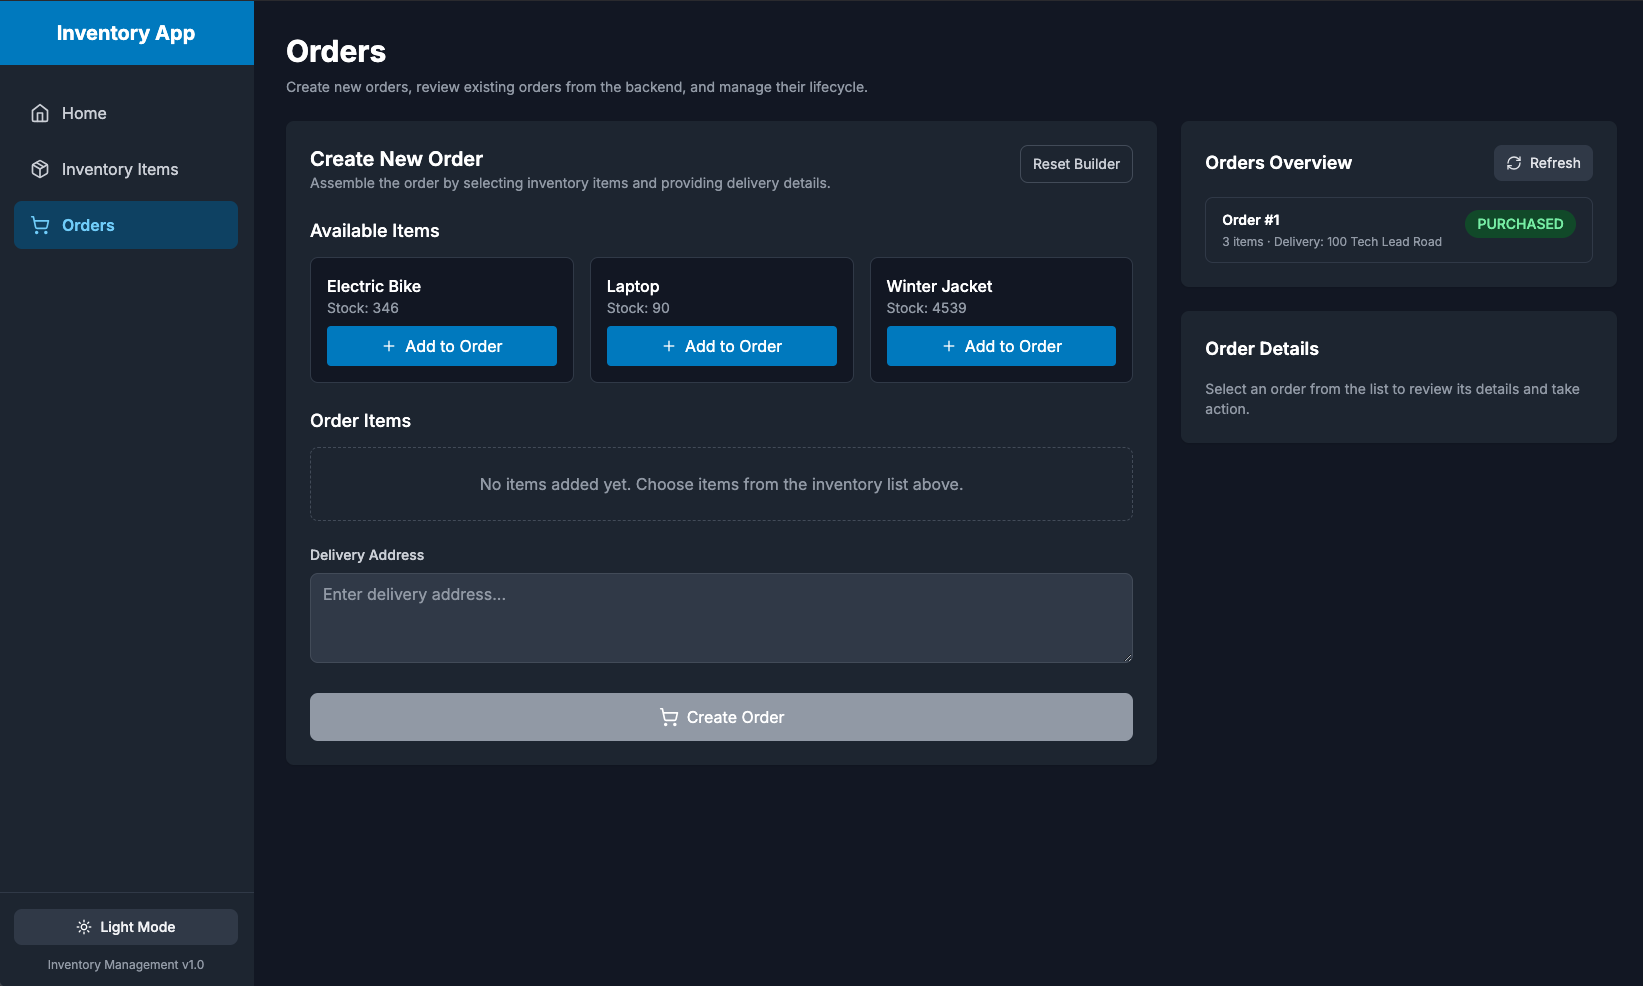
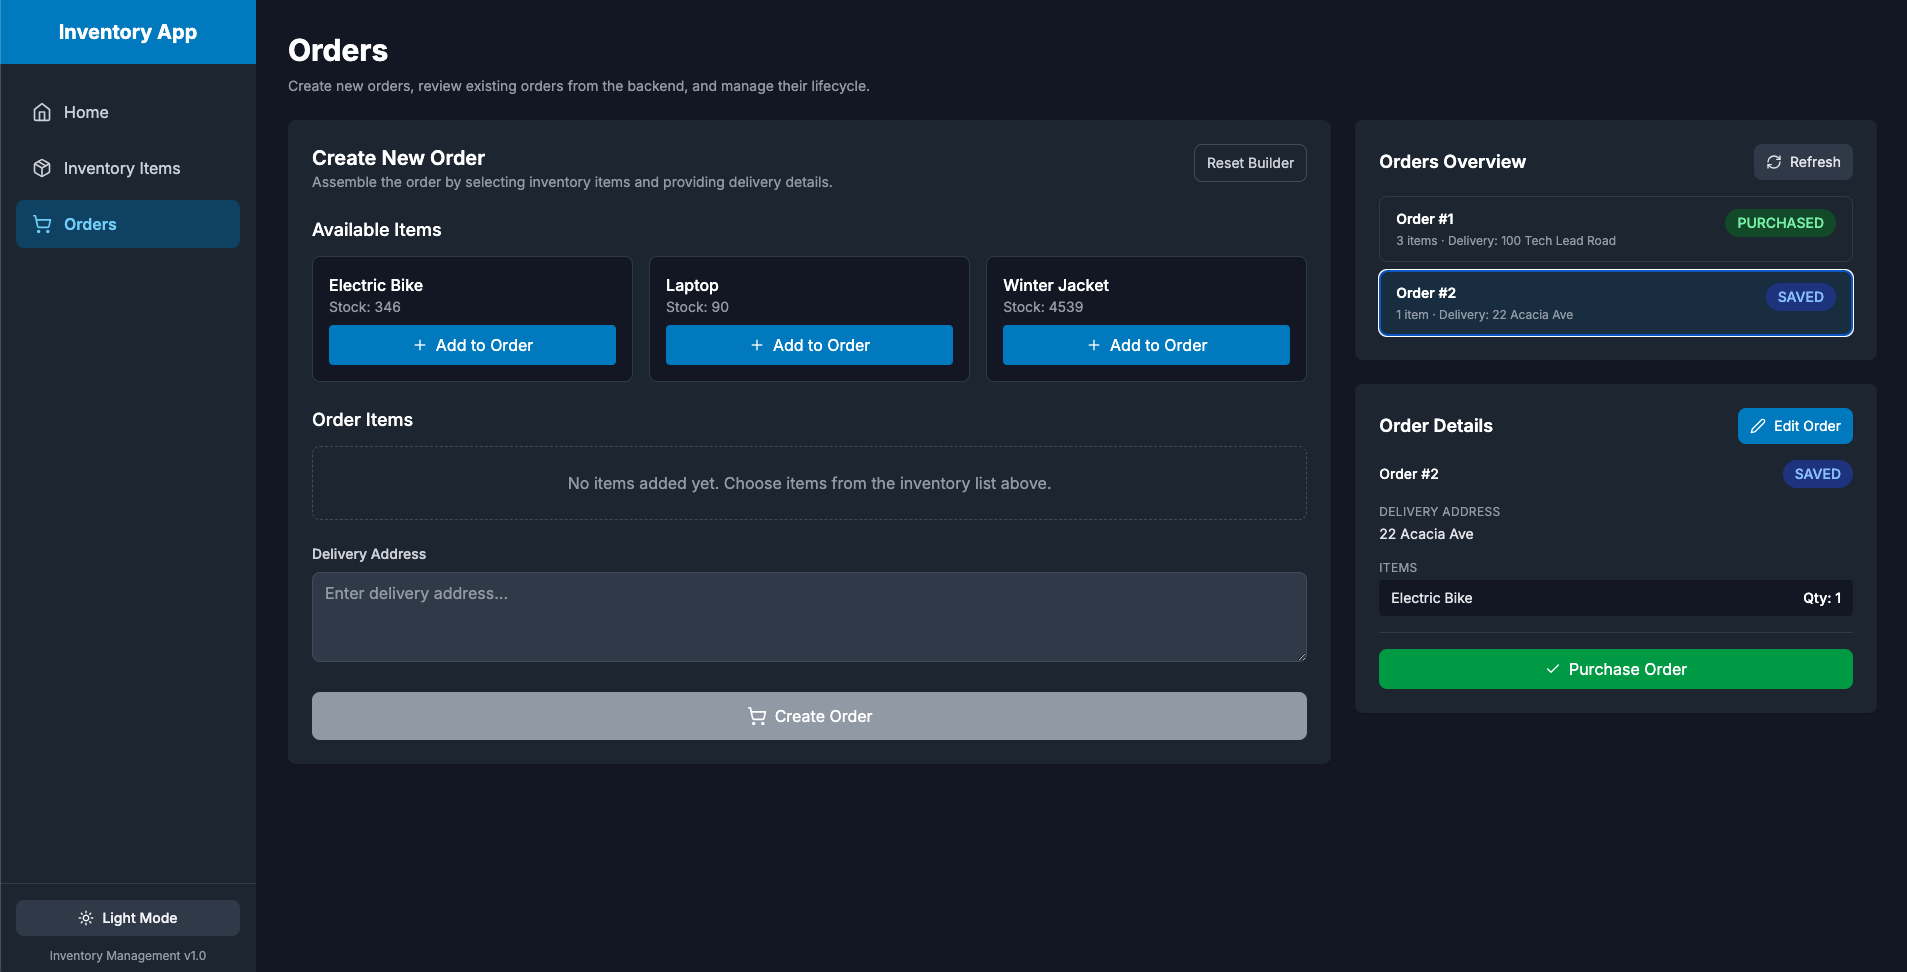
update  preview image

diff --git a/app/orders/page.tsx b/app/orders/page.tsx
@@ -210,11 +210,11 @@ export default function OrdersPage() {
     }
   };
 
-  const handlePurchaseOrder = async (orderId: number, virtual: boolean = true) => {
+  const handlePurchaseOrder = async (orderId: number) => {
     try {
       setIsSubmitting(true);
       setError(null);
-      await apiClient.purchaseOrder(orderId, virtual);
+      await apiClient.purchaseOrder(orderId);
       showSuccessMessage(`Order #${orderId} purchased successfully!`);
 
       await loadOrders();
@@ -224,9 +224,6 @@ export default function OrdersPage() {
       if (editingOrderId === orderId) {
         prefillBuilderFromOrder(refreshedOrder);
       }
-
-      // Refresh inventory numbers so the builder reflects updated stock levels
-      await loadItems();
     } catch (err) {
       setError('Failed to purchase order.');
       console.error('Error purchasing order:', err);
@@ -512,22 +509,13 @@ export default function OrdersPage() {
 
                 <div className="flex flex-col gap-2 pt-4 border-t border-gray-200 dark:border-gray-700">
                   {selectedOrder.status === OrderStatus.SAVED ? (
-                    <>
-                      <button
-                        onClick={() => selectedOrder.id != null && handlePurchaseOrder(selectedOrder.id, true)}
-                        disabled={isSubmitting}
-                        className="flex items-center justify-center px-4 py-2 bg-primary-600 text-white rounded-lg hover:bg-primary-700 transition-colors disabled:bg-gray-400"
-                      >
-                        <Check className="w-4 h-4 mr-2" /> Purchase (Virtual)
-                      </button>
-                      <button
-                        onClick={() => selectedOrder.id != null && handlePurchaseOrder(selectedOrder.id, false)}
-                        disabled={isSubmitting}
-                        className="flex items-center justify-center px-4 py-2 bg-green-600 text-white rounded-lg hover:bg-green-700 transition-colors disabled:bg-gray-400"
-                      >
-                        <Check className="w-4 h-4 mr-2" /> Purchase (Real)
-                      </button>
-                    </>
+                    <button
+                      onClick={() => selectedOrder.id != null && handlePurchaseOrder(selectedOrder.id)}
+                      disabled={isSubmitting}
+                      className="flex items-center justify-center px-4 py-2 bg-green-600 text-white rounded-lg hover:bg-green-700 transition-colors disabled:bg-gray-400"
+                    >
+                      <Check className="w-4 h-4 mr-2" /> Purchase Order
+                    </button>
                   ) : (
                     <p className="text-sm text-gray-600 dark:text-gray-400">
                       This order has already been purchased.

diff --git a/app/api/orders/[id]/purchase/route.ts b/app/api/orders/[id]/purchase/route.ts
@@ -7,18 +7,12 @@ export async function POST(
   { params }: { params: { id: string } }
 ) {
   try {
-    const { searchParams } = new URL(request.url);
-    const virtual = searchParams.get('virtual') !== 'false'; // Default to true
-    
-    const response = await fetch(
-      `${API_BASE_URL}/api/orders/${params.id}/purchase?virtual=${virtual}`,
-      {
-        method: 'POST',
-        headers: {
-          'Content-Type': 'application/json',
-        },
-      }
-    );
+    const response = await fetch(`${API_BASE_URL}/api/orders/${params.id}/purchase`, {
+      method: 'POST',
+      headers: {
+        'Content-Type': 'application/json',
+      },
+    });
 
     if (!response.ok) {
       return NextResponse.json(

diff --git a/lib/api-client.ts b/lib/api-client.ts
@@ -60,12 +60,8 @@ class ApiClient {
     return response.data;
   }
 
-  async purchaseOrder(id: number, virtual: boolean = true): Promise<Order> {
-    const response = await this.client.post<Order>(
-      `/api/orders/${id}/purchase`,
-      null,
-      { params: { virtual } }
-    );
+  async purchaseOrder(id: number): Promise<Order> {
+    const response = await this.client.post<Order>(`/api/orders/${id}/purchase`);
     return response.data;
   }
 }
